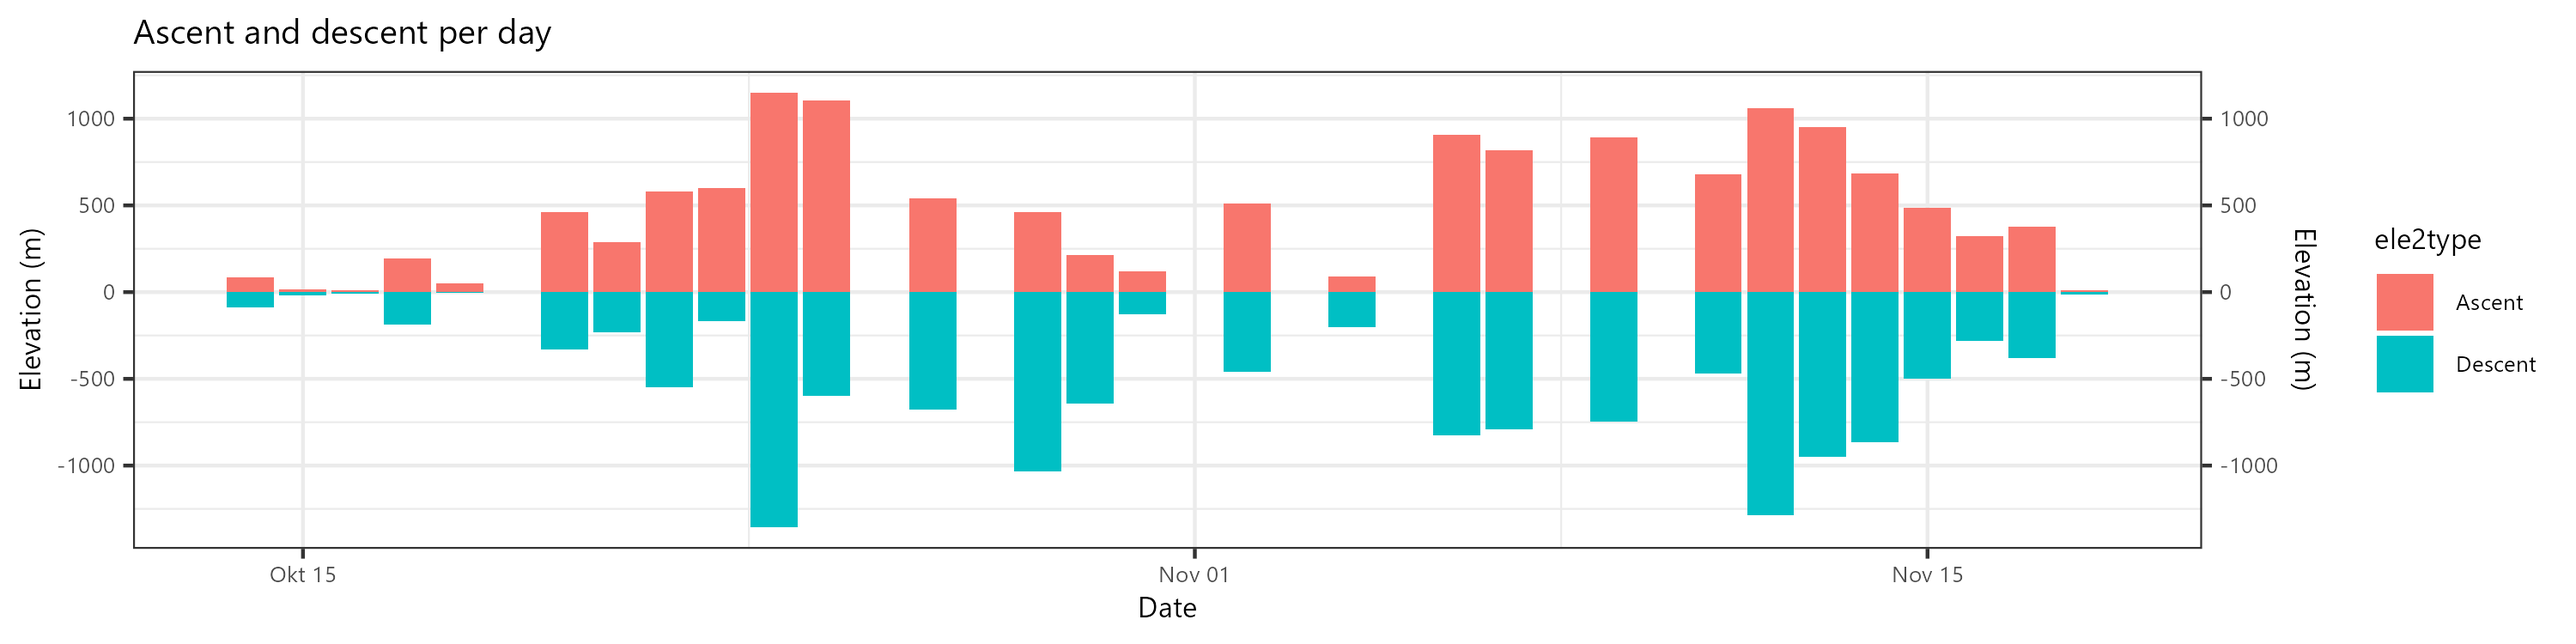
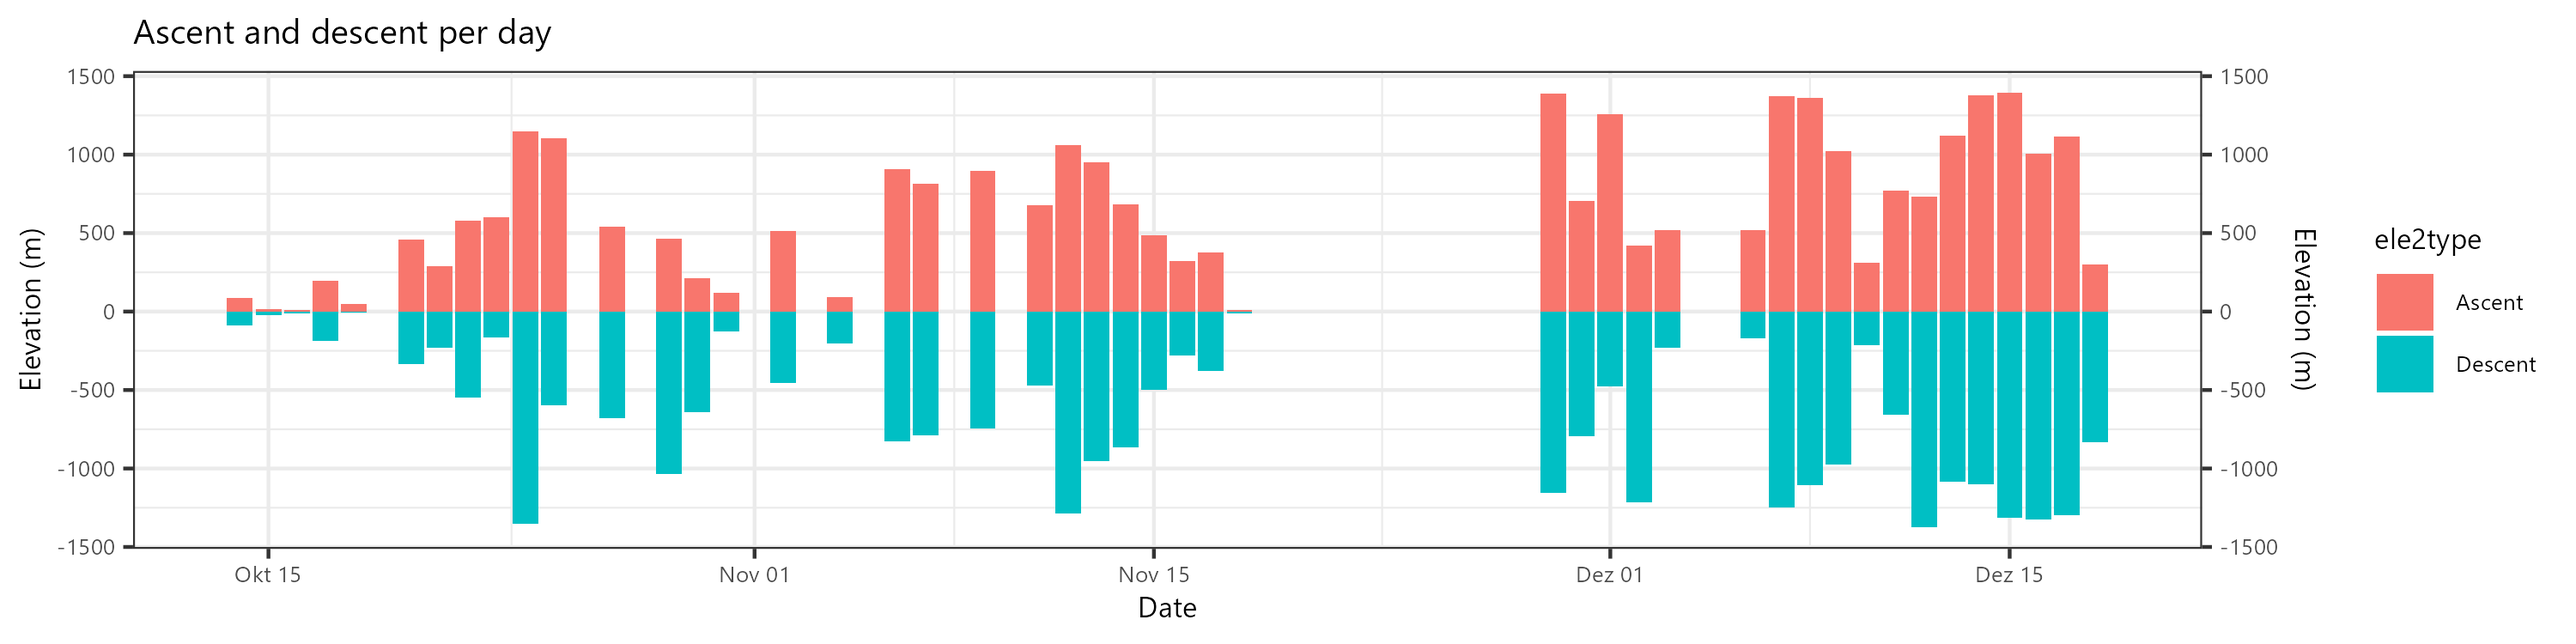
up

diff --git a/_includes/BikeTrip2025_stats.md b/_includes/BikeTrip2025_stats.md
@@ -1,7 +1,7 @@
 |What                   |  value|
 |:----------------------|------:|
-|Distance total (km)    |   1216|
-|Days spent on the bike |     29|
-|Days gone              |     35|
-|Total ascent (m)       |  13757|
-|Total descent (m)      | -14072|
+|Distance total (km)    |   1875|
+|Days spent on the bike |     47|
+|Days gone              |     65|
+|Total ascent (m)       |  30449|
+|Total descent (m)      | -30648|
